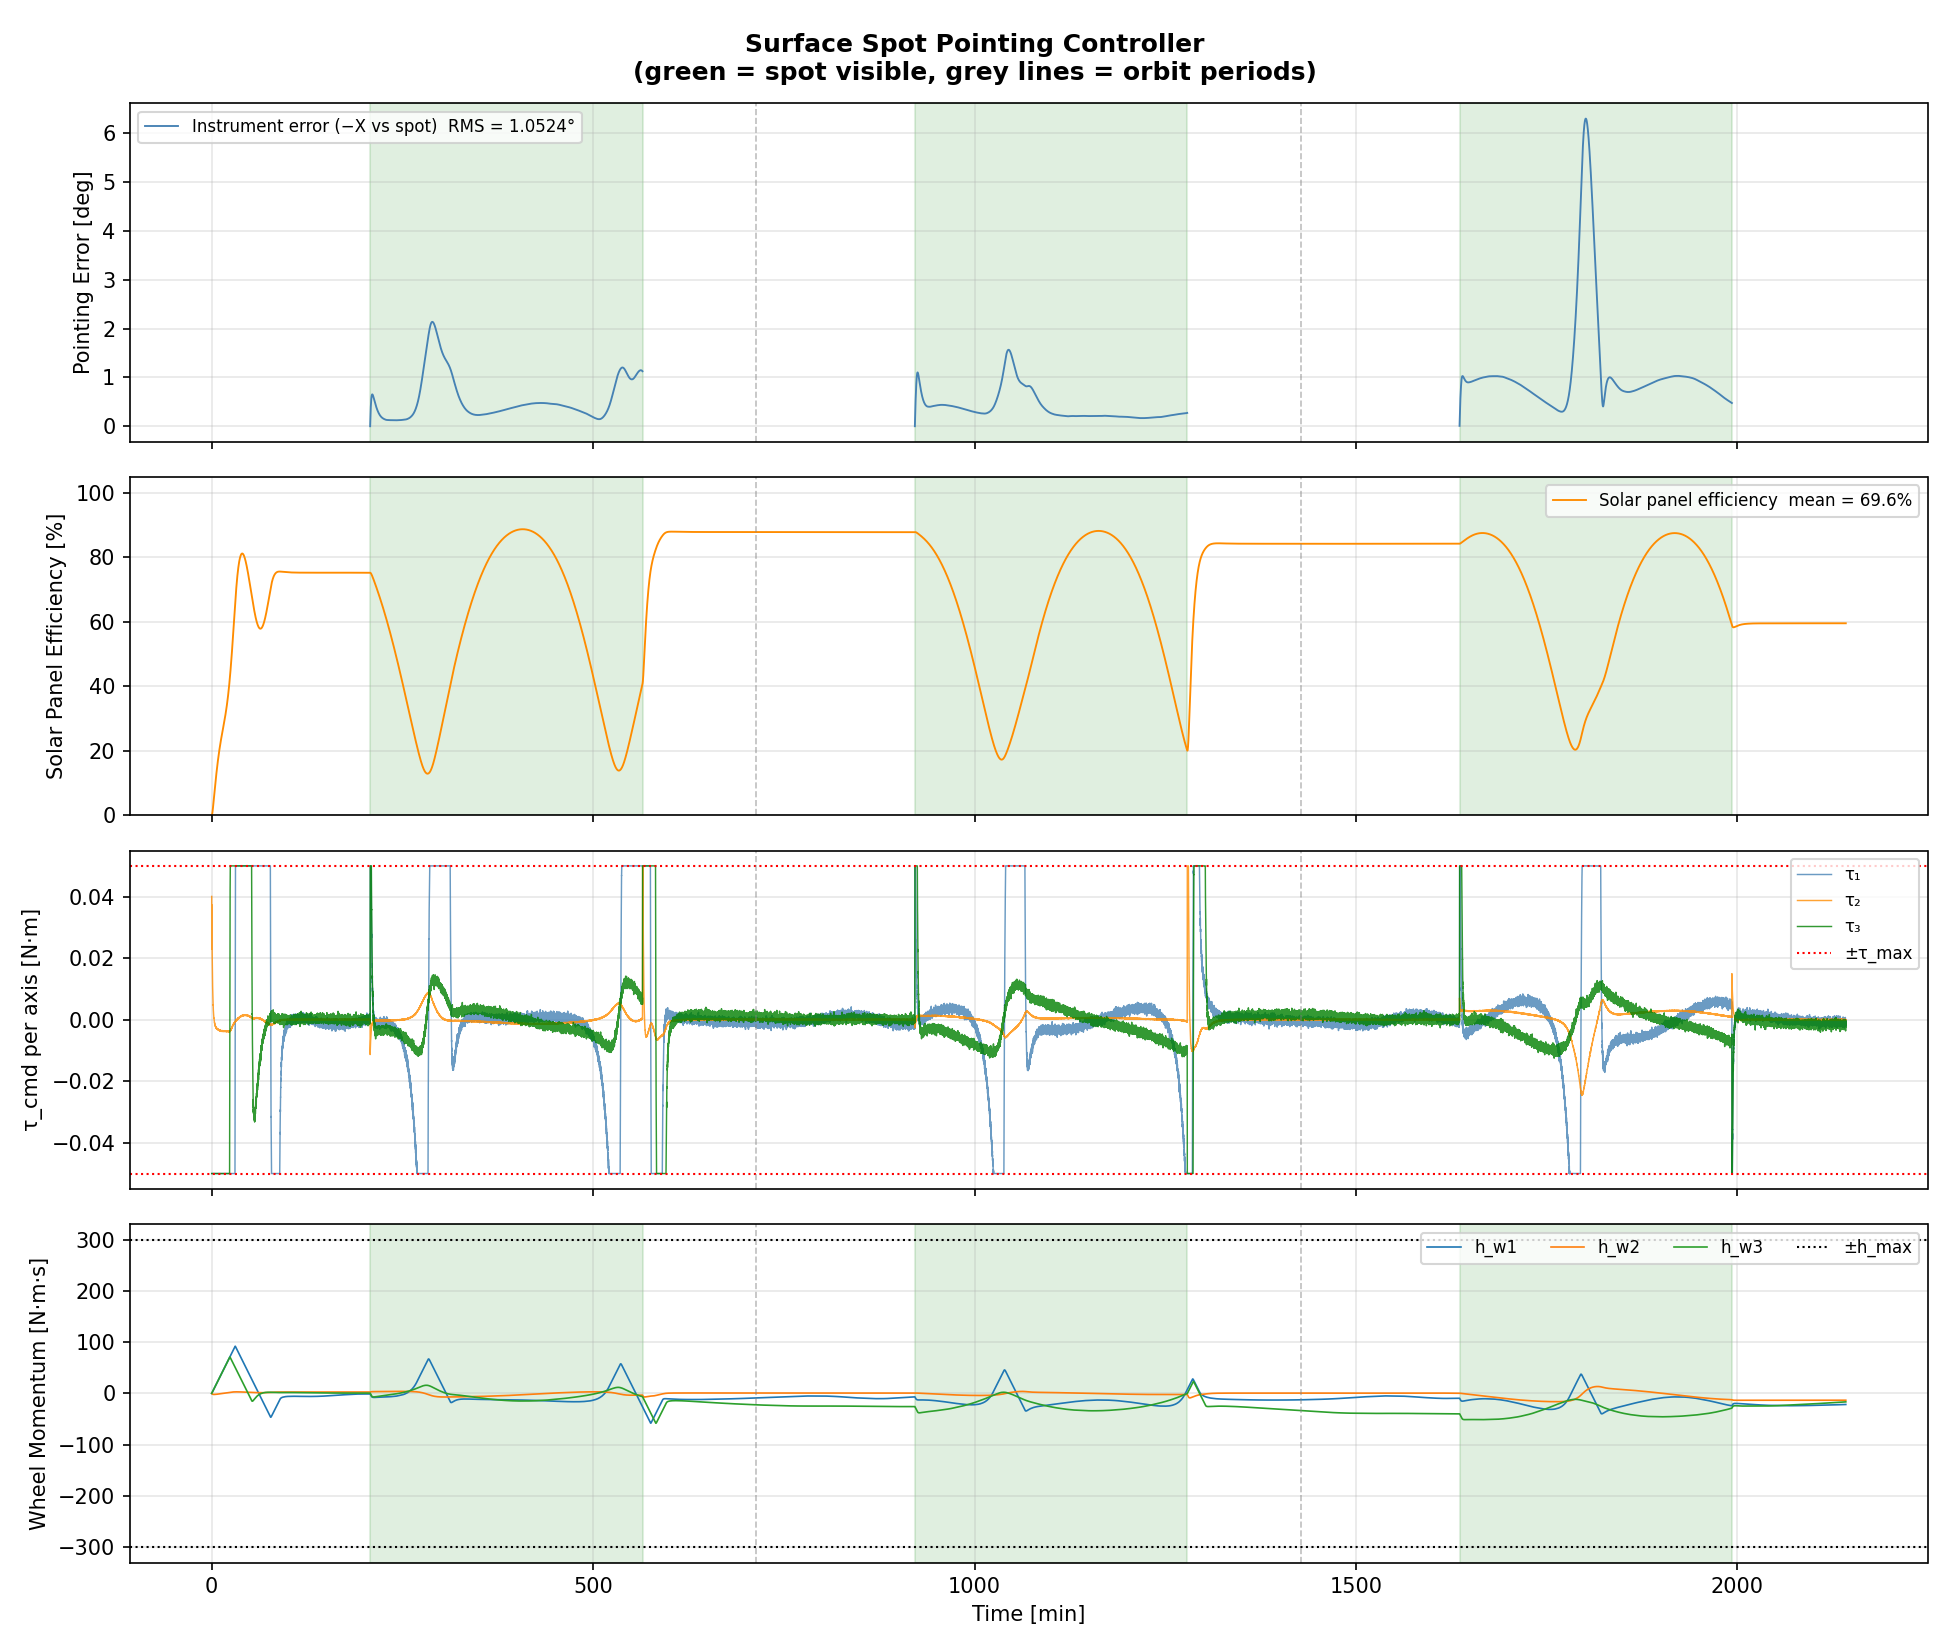
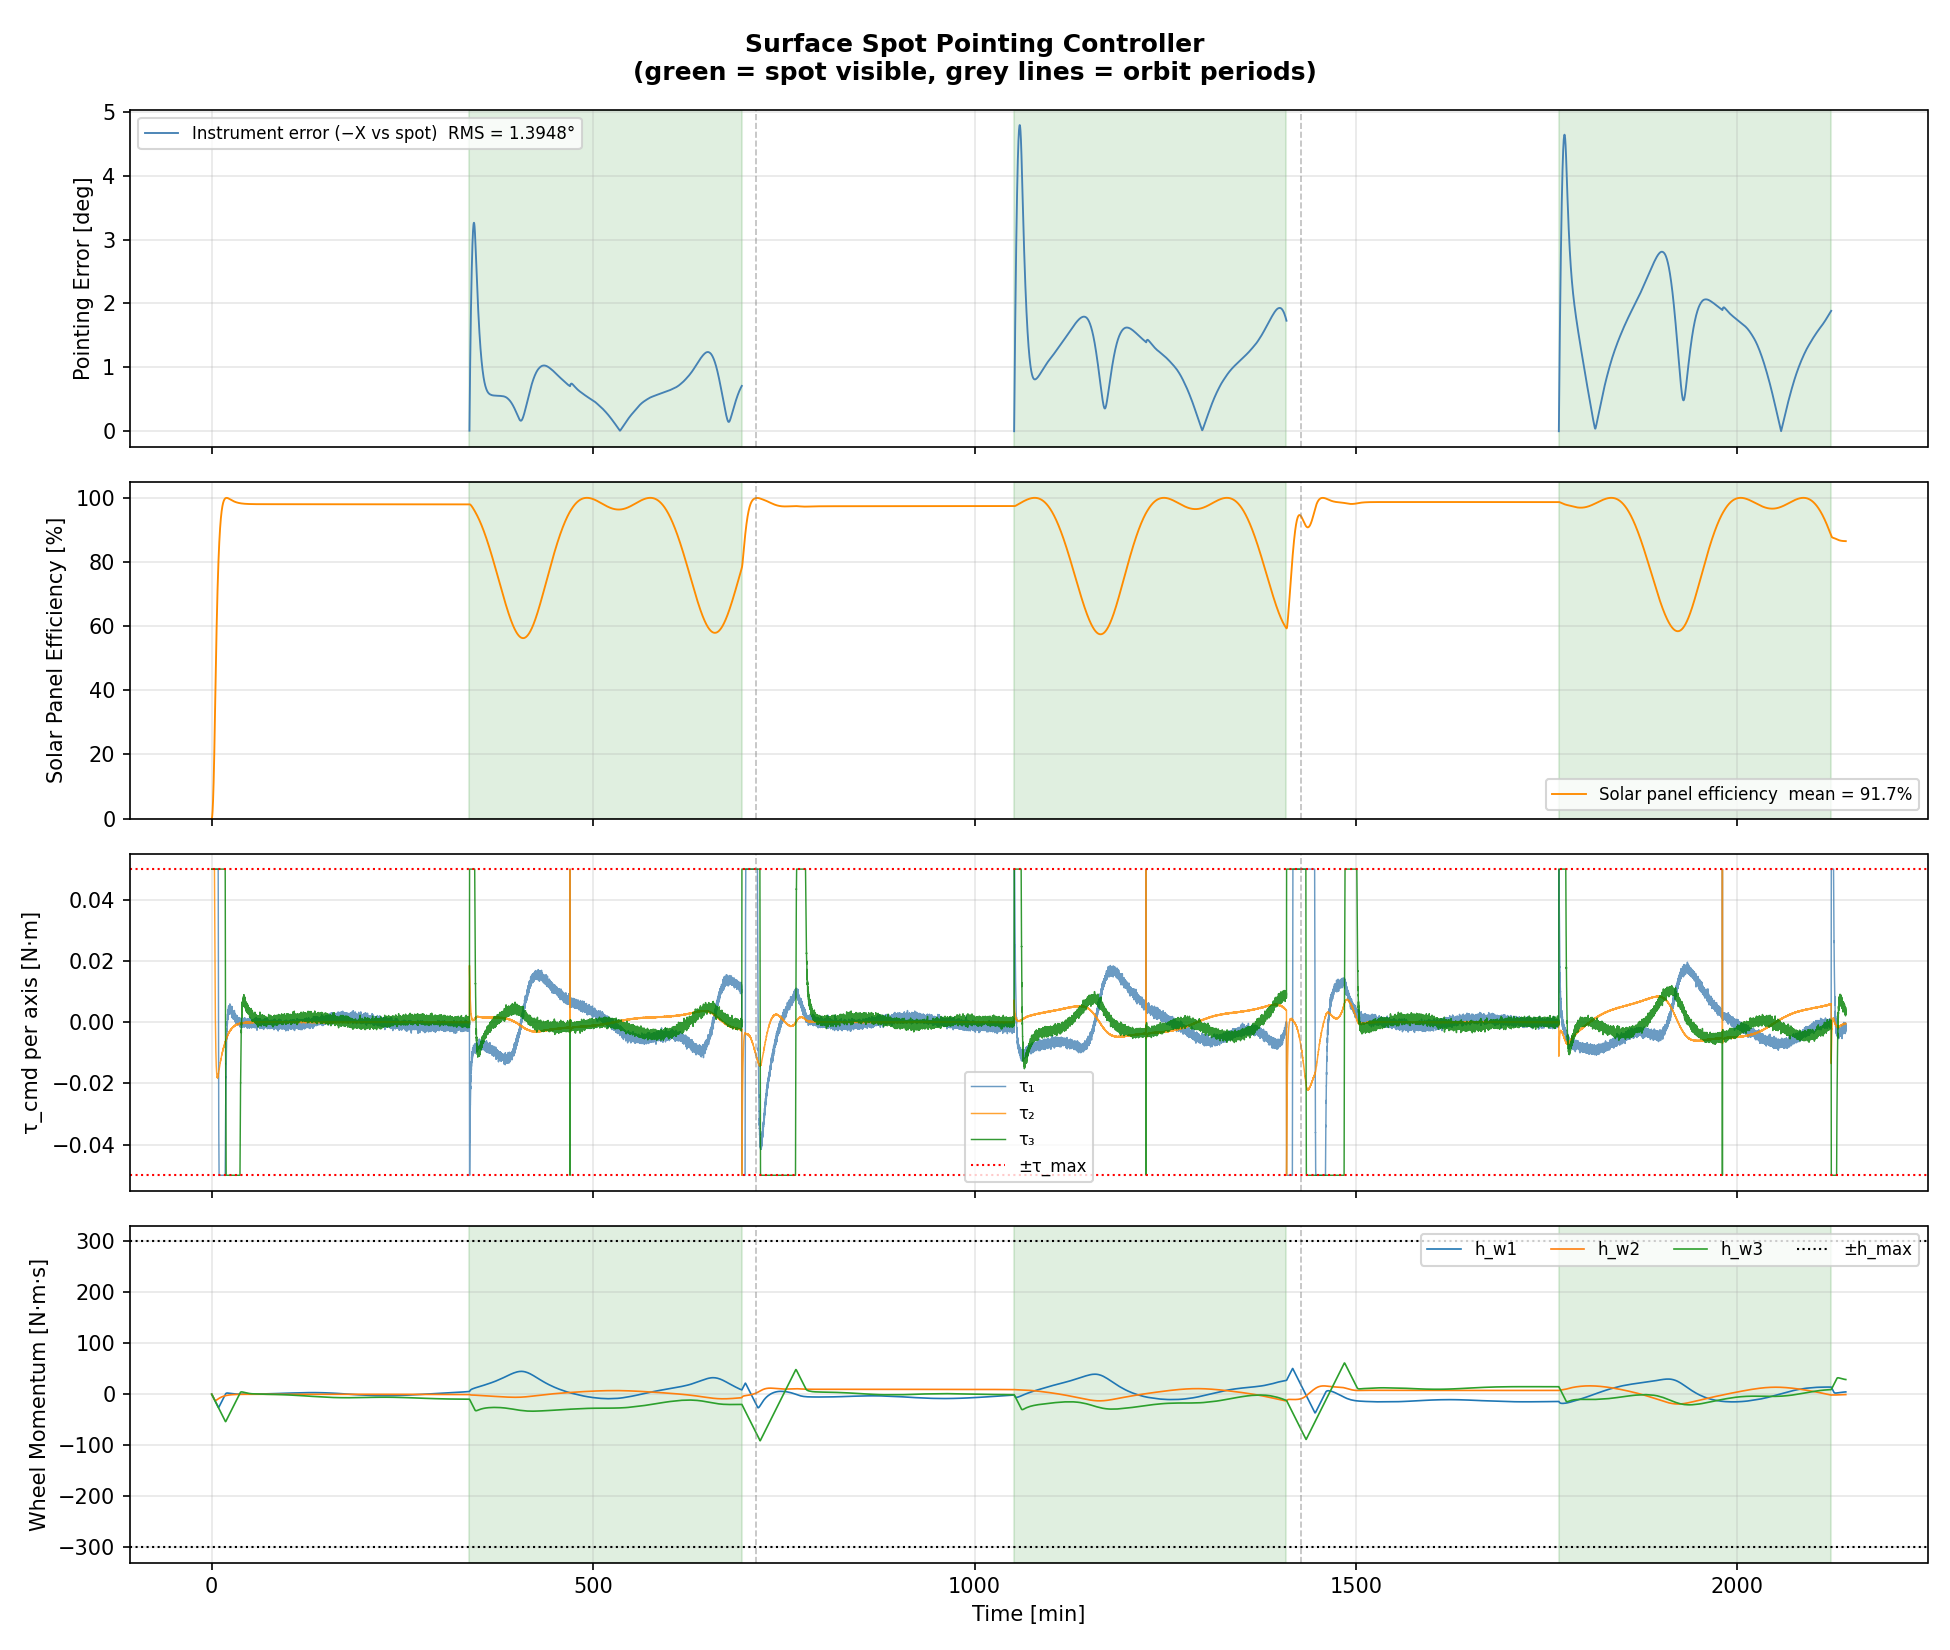
changed quat stuff

diff --git a/PsycheScripts/pointing_accuracy.py b/PsycheScripts/pointing_accuracy.py
@@ -163,15 +163,14 @@ def compute_q_target(t, spot_body):
 
 def compute_omega_target(t, spot_body, dt=1.0):
     """
-    Angular rate of the target frame, estimated by finite difference.
-    omega_target = 2 * G(q_target).T @ q_dot_target
+    Angular rate of the target frame, estimated by small difference over time.
+    omega_target = 2 * qlog(q_rel) / dt, where q_rel = q_t_dt * q_t^{-1}
     """
     q_t    = compute_q_target(t, spot_body)
     q_t_dt = compute_q_target(t + dt, spot_body)
-    if np.dot(q_t, q_t_dt) < 0:
-        q_t_dt = -q_t_dt
-    q_dot  = (q_t_dt - q_t) / dt
-    return 2.0 * adcs.G(q_t).T @ q_dot
+    q_rel  = adcs.qmult(adcs.qinv(q_t), q_t_dt)
+    phi    = adcs.qlog(q_rel)
+    return 2.0 * phi / dt
 
 
 # ── Pointing error metrics ────────────────────────────────────────────────────
@@ -481,7 +480,7 @@ if __name__ == '__main__':
     print("=" * 60)
     print("SURFACE SPOT POINTING CONTROLLER")
     print(f"  Orbital period  = {T_orbit/60:.1f} min")
-    print(f"  Psyche spin period = {T_psyche_spin/3600:.3f} hr")
+    print(f"  Psyche spin period = {T_PSYCHE_spin/3600:.3f} hr")
     print(f"  Psyche pole (inertial) = {np.round(PSYCHE_pole, 4)}")
     print("=" * 60)
 